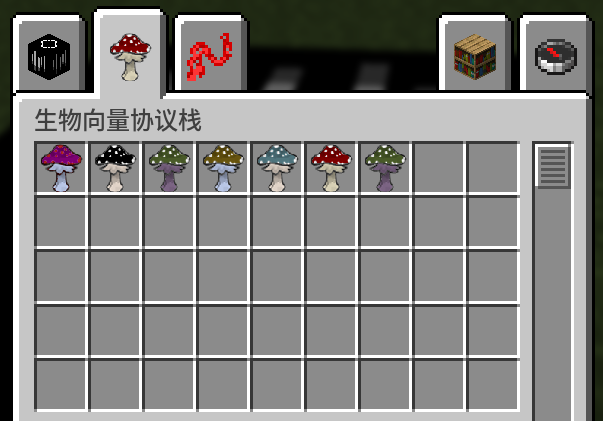
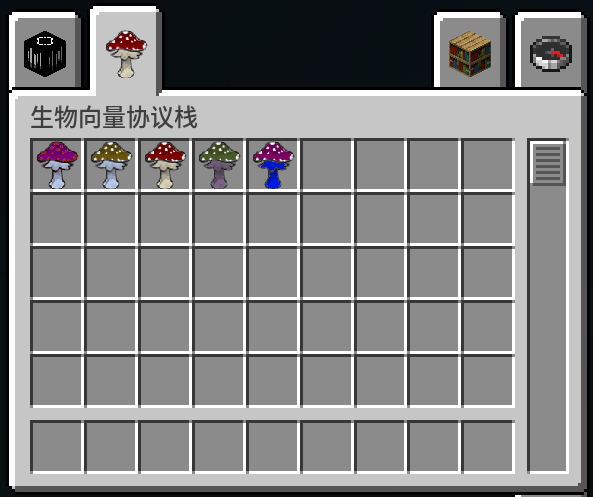
ud: beta

diff --git a/docs/notes/wiki/模组功能.md b/docs/notes/wiki/模组功能.md
@@ -3,6 +3,7 @@ title: 模组功能
 createTime: 2025/07/07 17:43:56
 permalink: /wiki/hb584ra7/
 ---
+
 _想要让牛和羊协同干掉一只坚守者？_
 
 _想要让玩家享受一队拥有 200%血量和力量 IV 的训练有素的混合怪组的围攻？_
@@ -25,14 +26,12 @@ _你都可以做到。_
 
 ### **模组核心功能**
 
-| ID  | 名称         | 描述                                                    |
-| --- | ------------ | ------------------------------------------------------- |
-| 0   | 刷怪笼模板   | 能通过`json`文件配置刷怪笼信息                          |
-| 1   | 复种类支持   | 在单刷怪笼内定义多种类型的待召唤实体                    |
-| 2   | 数量控制     | 能控制每种实体在单刷怪笼生命周期内应当生成/被击杀的数量 |
-| 3   | 生物附加效果 | 能使通过本刷怪笼生成的实体获得属性加成，药水效果        |
-| 5   | 生物行为附加 | 能修正实体的`aiGoal`                                    |
-| 6   | 生成控制     | 能控制本刷怪笼的某种实体的刷怪间隔，刷怪范围            |
-| 7   | 奖励箱       | 刷怪笼生命周期结束后，在刷怪笼中心生成奖励箱            |
-| 8   | 子刷怪笼     | 能在刷怪笼被激活时生成子刷怪笼                          |
-| 9   | 全局数据包   | 游戏根目录`./spcurs`下可放置模组所需数据包              |
+- **刷怪笼模板配置**：所有刷怪笼的生成信息都可通过 **JSON 配置文件**进行全面且直观的配置。
+- **多实体类型支持**：单个刷怪笼现在可以定义并生成**多种不同类型的实体**，极大丰富了刷怪的多样性。
+- **精细数量控制**：玩家能够精确控制每种实体在单个刷怪笼**整个生命周期内生成或被击杀的总量**。
+- **实体增益效果**：通过此刷怪笼生成的实体可以获得**属性加成**和**药水效果**，提升战斗挑战性。
+- **实体行为修正**：模组允许对生成的实体**人工智能 (AI) 目标进行修改**，实现更复杂的行为模式。
+- **生成参数控制**：玩家可以灵活调整每种实体在刷怪笼内的**生成间隔**和**有效生成范围**。
+- **奖励箱机制**：当刷怪笼的挑战完成后，将在其中心位置**生成一个奖励箱**，提供战利品。
+- **子刷怪笼激活**：主刷怪笼被激活时，能够**动态生成新的子刷怪笼**，创造连锁反应。
+- **全局数据包支持**：模组数据包可放置在游戏根目录的 `./spcurs` 文件夹下，实现**更广泛的自定义和扩展**。

diff --git a/docs/notes/wiki/模组功能性方块.md b/docs/notes/wiki/模组功能性方块.md
@@ -3,11 +3,16 @@ title: 模组功能性方块
 createTime: 2025/07/07 17:43:56
 permalink: /wiki/53khpxay/
 ---
+
 ### **生物向量协议栈**
 
 <figure><img src="/assets/intro1.png" alt="" width="452"><figcaption><p>刷怪菇（咕咕嘎嘎？）</p></figcaption></figure>
 
-在创造模式的这个物品栏显式的列举出了所有模组和数据包中的刷怪笼配置，你可以将它们拿取为物品并在一些特定方块中使用
+在创造模式的这个物品栏显式的列举出了所有模组和数据包中的刷怪笼配置，你可以将它们拿取为物品并在一些特定方块中使用。
+
+<span style="color:#e03e2d">由于本模组的工具性质和依赖自定义数据包添加游戏内容的特征，截至 0.2.1-beta 版本，模组本体仅携带了 5 个用于测试的刷怪笼配置。</span>
+
+若需要产出自定义刷怪笼配置，请参考[此处的教程](JSON文件格式/刷怪笼文件.md)
 
 ### **动态重构器**
 
@@ -20,3 +25,5 @@ permalink: /wiki/53khpxay/
 <figure><img src="/assets/intro3.png" alt="" width="349"><figcaption><p>ALL!</p></figcaption></figure>
 
 你应当正对着红蓝两条带子（？）垂下来的那一面，放入两个生物向量协议（持物品右击），空手右击即可激活一场斗蛐蛐。它会在远处生成两个刷怪笼，它们生成的生物会触发战斗。
+
+模组配置文件<kbd>./config/spcurs/common.toml</kbd>中字段 CasinoScDistance 可用于设置生成的刷怪笼的距离远近

diff --git a/docs/notes/wiki/SpawnCursion.md b/docs/notes/wiki/SpawnCursion.md
@@ -3,10 +3,13 @@ title: SpawnCursion
 createTime: 2025/07/07 17:43:56
 permalink: /wiki/toeupf89/
 ---
+
 Minecraft 版本：1.20.1
 
 模组平台：Forge
 
 模组版本：0.2.1-beta (25.07.08)
+
+<span style="color:#e03e2d">**模组处于开发阶段。可能存在无法预期的错误或未来的改动，请在添加模组前备份你的存档。**</span>
 
 GitHub 仓库：[https://github.com/azaneNH37/SpawnCursion](https://github.com/azaneNH37/SpawnCursion)
